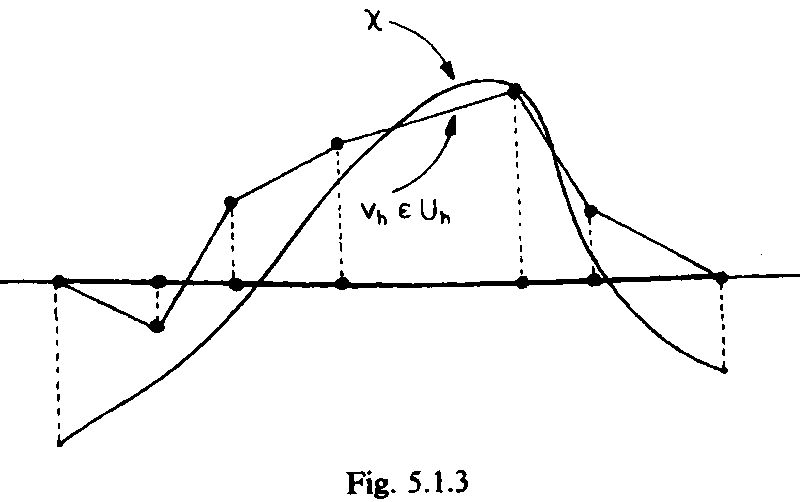
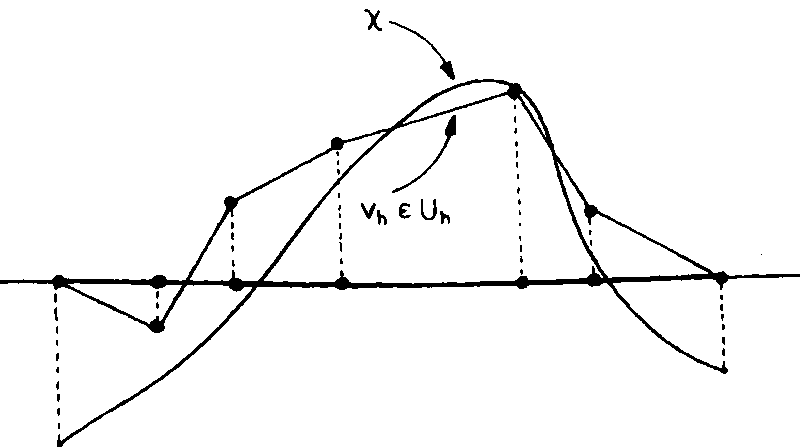
a fair bit of work on FE slides ... but of course more to do

diff --git a/talk1/talk1.tex b/talk1/talk1.tex
@@ -30,9 +30,14 @@
 
 \newcommand{\ip}[2]{\left\langle #1, #2 \right\rangle}
 
-\newcommand{\gcomm}[1]{\ensuremath{\text{\footnotesize \grey{$\leftarrow$ #1}}}}
-
 \newcommand{\lc}{{\text{\large $\circ$}}}
+
+% grey comments on the right
+\newcommand{\acomm}[1]{\ensuremath{\text{\small \grey{$\leftarrow$ #1}}}}
+\newcommand{\afcomm}[1]{\ensuremath{\text{\footnotesize \grey{$\leftarrow$ #1}}}}
+\newcommand{\pcomm}[1]{\ensuremath{\text{\small \grey{(#1)}}}}
+
+\newcommand{\blue}[1]{{\color{icBlue}#1}}
 
 
 \title{Variational inequalities and their finite element solutions}
@@ -121,7 +126,7 @@
 \begin{frame}{projection onto a closed, convex set}
 
 \begin{itemize}
-\item suppose $H$ is a real Hilbert space \grey{(e.g.~$\mathbb{R}^n$)}
+\item suppose $H$ is a real Hilbert space \pcomm{e.g.~$\mathbb{R}^n$}
 \item let $K\subset H$ be nonempty, closed, and convex
 \item a parallelogram law \& completeness argument shows that a unique minimizer exists for the following problem, so it makes a good definition
 
@@ -416,9 +421,9 @@ This is the \alert{variational inequality} problem for the data $K$ and $F$, den
 \item bounded domain $\Omega \subset \RR^d$ with Lipschitz boundary
 \item consider an elastic membrane, with vertical displacement $u$ over $\Omega$
     \begin{itemize}
-    \item[$\lc$] suppose small displacements $u$ \,\grey{(we will use the Laplacian $\grad^2$)}
+    \item[$\lc$] suppose small displacements $u$ \pcomm{we will use the Laplacian $\grad^2$}
     \end{itemize}
-\item $u=g$ on $\partial\Omega$ \,\grey{(fixed boundary condition)}
+\item $u=g$ on $\partial\Omega$ \pcomm{fixed boundary condition}
 \item subject to a vertical force $f$
 
 \hfill \input{tikz/justomega.tex}
@@ -427,12 +432,12 @@ This is the \alert{variational inequality} problem for the data $K$ and $F$, den
 \item constrained to be on or above an \alert{obstacle} $\psi$
 
 \medskip
-\item then:
+\item<2> then:
 \begin{align*}
--\grad^2 u &= f \text{\, where $u>\psi$} && \gcomm{black mesh} && \hspace{50mm} \\\
-         u &= \psi \text{\, otherwise} && \gcomm{white mesh}
+-\grad^2 u &= f \text{\, where $u>\psi$} && \afcomm{black mesh} && \hspace{50mm} \\\
+         u &= \psi \text{\, otherwise} && \afcomm{white mesh}
 \end{align*}
-\item but \emph{where} will $u=\psi$ hold?
+\item<2> but \emph{where} will $u=\psi$ hold?
 \end{itemize}
 
 \vspace{-16mm}
@@ -511,7 +516,7 @@ result:
 
     \begin{itemize}
     \item[$\lc$] Poisson equation $-\grad^2 u=f$ holds in $E_u$
-    \item[$\lc$] both Dirichlet \& Neumann conditions will hold along $\Gamma_u$ \, \grey{(which compensates for unknown location of $\Gamma_u$?)}
+    \item[$\lc$] both Dirichlet \& Neumann conditions will hold along $\Gamma_u$ \pcomm{which compensates for unknown location of $\Gamma_u$?}
     \end{itemize}
 \end{itemize}
 
@@ -530,7 +535,7 @@ result:
     \begin{itemize}
     \item[$\lc$] in applications, this step is not as obvious as for the equality-constrained case?
     \end{itemize}
-\item let \alert{$K = \{v\in H^1(\Omega) : v\ge\psi \text{ and } v|_{\partial\Omega}=g\}$}, a closed, convex subset \,\grey{(not a subspace)}
+\item let \alert{$K = \{v\in H^1(\Omega) : v\ge\psi \text{ and } v|_{\partial\Omega}=g\}$}, a closed, convex subset \pcomm{not a subspace}
 \end{itemize}
 
 \begin{block}{weak forms}
@@ -589,7 +594,7 @@ Suppose $a(\cdot,\cdot)$ is bilinear, bounded, and coercive on a Hilbert space $
 \begin{column}{0.65\textwidth}
 \begin{itemize}
 \item see textbook Ciarlet (2022) for elasticity generally
-\item consider a linear elastic solid on $\Omega\subset\RR^d$ \, \grey{($d=2,3$)}
+\item consider a linear elastic solid on $\Omega\subset\RR^d$ \pcomm{$d=2,3$}
 \item $u:\Omega\to\RR^d$ is \emph{displacement} from ref.~config.
 \item $E(u) = \tfrac12\left(\nabla u+\nabla u^\top\right)$ is \emph{strain tensor}
 \item $\sigma(u) = \lambda\, (\operatorname{tr}E(u))\, I + 2\mu\, E(u)$ is \emph{stress tensor}
@@ -611,10 +616,10 @@ Suppose $a(\cdot,\cdot)$ is bilinear, bounded, and coercive on a Hilbert space $
 
 \onslide<2->
 \begin{itemize}
-\item a \emph{gap function} $g$ is given on $\Gamma_C$ \, \grey{\small ($g=$ normal distance from ref.~config.~to obstacle)}
+\item a \emph{gap function} $g$ is given on $\Gamma_C$ \pcomm{$g=$ normal distance from ref.~config.~to obstacle}
 \item equations of equilibrium:
 \begin{align*}
-  -\nabla\cdot\sigma(u) &= f \quad \text{in } \Omega && \text{stress balance \, \grey{\small ($f$ is body force)}} \\
+  -\nabla\cdot\sigma(u) &= f \quad \text{in } \Omega && \text{stress balance \pcomm{$f$ is body force}} \\
   u\cdot n &\le g \quad \text{on } \Gamma_C && \text{\alert{non-penetration constraint}}
 \end{align*}
 \end{itemize}
@@ -766,7 +771,7 @@ a source term; it adds or removes mass
 \item VI problem is to find $u_n\in K$ at $t_n$ so that, for all $v\in K$,
     $$\alert{\int_\Omega \frac{u_n-u_{n-1}}{\Delta t}(v-u_n) - \bq_n\cdot\nabla(v-u_n) \ge \int_\Omega f_n\,(v-u_n)} \hspace{20mm}$$
 \item $\bq_n = \bq(x,u_n,\grad u_n)$ denotes the unknown flux
-\item well-posed for many flux formulas \,\grey{\small (B.~2021)}
+\item well-posed for many flux formulas \pcomm{B.~2021}
 \item generally not an optimization problem
 \item note that $\Delta t\to \infty$ limit is steady state
 \end{itemize}
@@ -807,18 +812,18 @@ The \alert{mass lost in the retreat area $\Omega_n^r$ came from an unknowable sp
 \end{frame}
 
 
-\begin{frame}{$\infty$-dimensional VI examples}
+\begin{frame}{summary: $\infty$-dimensional VI examples}
 \begin{center}
 
 \renewcommand{\arraystretch}{1.25}
 \begin{tabular}{llll}
 
-problem                & unknown                           & constraint              & minimization? \\
+problem                 & unknown                           & constraint              & minimization? \\
 \midrule
-classical obstacle     & displacement $u\in H^1(\Omega)$   & $u\ge\psi$ on $\Omega$  & yes (convex) \\
-Signorini contact      & displacement $u\in H^1(\Omega;\mathbb{R}^d)$ & $u\cdot n\le g$ on $\Gamma_C$ & yes (convex) \\
-hyperelastic contact\quad & \qquad ''                      & \qquad ''               & yes (not convex) \\
-fluid layer thickness  & thickness $u\in W^{1,p}(\Omega)$  & $u\ge 0$ on $\Omega$    & no \\
+classical obstacle      & displacement $u\in H^1(\Omega)$   & $u\ge\psi$ on $\Omega$  & yes (convex) \\
+Signorini contact       & displacement $u\in H^1(\Omega;\mathbb{R}^d)$ & $u\cdot n\le g$ on $\Gamma_C$ & yes (convex) \\
+hyperelastic contact    & \qquad ''                      & \qquad ''               & yes (not convex) \\
+fluid layer in climate  & thickness $u\in W^{1,p}(\Omega)$  & $u\ge 0$ on $\Omega$    & no \\
 \bottomrule
 \end{tabular}
 \end{center}
@@ -826,66 +831,111 @@ fluid layer thickness  & thickness $u\in W^{1,p}(\Omega)$  & $u\ge 0$ on $\Omega
 \medskip
 in each:
 \begin{itemize}
-\item the constraint is active on a subset of $\Omega$, or of $\Gamma_C \subset \partial\Omega$
-\item simultaneously solution process for $u$ and the active subset
-\item the VI is posed without prior reference to active subset or free boundary
+\item the constraint is active on a subset of $\Omega$, or of $\Gamma_C \subset \partial\Omega$, but
+\item \alert{a VI problem does not refer to the active subset or free boundary}
 \end{itemize}
 
-\medskip
-\grey{variational inequalities have many more applications, including pricing of options, traffic flow networks, game theory, electrical circuits, phase transformations, and so on}
+\medskip 
+\grey{there are many more applications of VIs: pricing of options, traffic flow networks, game theory, electrical circuits, phase transformations, \dots}
 \end{frame}
 
 
-\section[FE solutions]{finite element solutions \hfill {\small \texorpdfstring{$\leftarrow$}{←} \emph{differences from PDE case}}}
+\section[FE solutions]{finite element solutions \hfill {\small \texorpdfstring{$\leftarrow$}{←} \emph{basics, and differences from PDE case}}}
 
-\begin{frame}{finite element for VIs: the basics}
+\begin{frame}{finite elements (FE) for VIs: the basics}
 
 \begin{itemize}
-\item \strikeThrough{taking coals to Newcastle}
-\item presenting finite element (FE) basics at Imperial may be unnecessary
-\item nonetheless the next slides are both:
+\item presenting FE basics at Imperial may be unnecessary \, \pcomm{coals to Newcastle}
+\item the final slides in this talk:
     \begin{itemize}
-    \item[$\lc$] relatively elementary, and
-    \item[$\lc$] focussed on the contrast between PDEs and VIs
+    \item[$\lc$] are relatively elementary, and
+    \item[$\lc$] focus on the contrast between PDEs and VIs
     \end{itemize}
+\item let us return to the classical obstacle problem,
+\begin{align*}
+&K = \{v\in H^1(\Omega) : v\ge\psi \text{ and } v|_{\partial\Omega}=g\} \\
+&\int_\Omega \nabla u\cdot\nabla(v-u) \ge \int_\Omega f\,(v-u) \quad \forall v\in K \hspace{30mm}
+\end{align*}
+\item and summarize regularity:
+\end{itemize}
+
+\vspace{-20mm}
+\hfill \includegraphics[width=0.30\textwidth]{figs/viamr-obstacle.png}
+
+\medskip
+\begin{proposition}[Kinderlehrer \& Stampacchia, 1980]
+For reasonable $\Omega$, if $\psi \in H^2$, $f\in L^2$, and $g\in H^{1/2}$ then \alert{$u\in H_g^1(\Omega)\cap H^2(\Omega)$}.  However, in general, \alert{$u\notin C^2$ and $u\notin H^3$}; this holds even if data are arbitrarily smooth.
+\end{proposition}
+\end{frame}
+
+
+\begin{frame}{FE for VIs: the basics}
+
+\begin{itemize}
+\item the FE problem is a \alert{finite-dimensional VI}, for \alert{$u_h \in K_h$}:
+\alert{
+\begin{align*}
+&K_h = \{v_h\in P_1 : v_h\ge\psi_h \text{ and } v_h|_{\partial\Omega}=g\} \\
+&\int_\Omega \nabla u_h\cdot\nabla(v_h-u_h) \ge \int_\Omega f\,(v_h-u_h) \quad \forall v_h\in K_h \hspace{30mm}
+\end{align*}
+}
+    \begin{itemize}
+    \item[$\lc$] for simplicity assume $g\in P_1$ and $\int f v_h$ is exact \pcomm{usual FE conformity dismissal}
+    \item[$\lc$] assume for now that \alert{$\psi_h=I_h \psi$};\, the discrete obstacle is the $P_1$ interpolant of $\psi$
+    \end{itemize}
+\item note that I am sticking to $P_1$ elements (continuous piecewise-linear)
+\pause
+\item but I have company
+
+\medskip
+{\small
+\begin{block}{the low-order VI gauntlet \, (Ciarlet 2002, p 289)}
+[Because of the low regularity], \emph{finite elements ``of low degree'' are sufficient for all practical purposes, a fact amply confirmed by numerical evidence.}
+\end{block}
+}
+
 \end{itemize}
 \end{frame}
 
 
-\begin{frame}{finite element for VIs: admissibility}
+\begin{frame}[fragile] % The [fragile] option is required for the minted environment
+\frametitle{FE for VIs: Firedrake for classical obstacle problem}
+
+\vspace{-3mm}
+\begin{itemize}
+\item having made an element choice, the Firedrake {\small (\blue{\href{https://www.firedrakeproject.org}{firedrakeproject.org}})} is easy
+\end{itemize}
+
+\vspace{15mm}
+\hfill \includegraphics[width=0.4\textwidth]{figs/cop.png}
+
+\vspace{-30mm}
+\inputminted[fontsize=\scriptsize]{python}{code/cop.py}
+\end{frame}
+
+
+\begin{frame}{FE for VIs: new admissibility concerns}
 
 \begin{columns}
 \begin{column}{0.6\textwidth}
 \begin{itemize}
 \item bar
+\item<2-> foo
 \end{itemize}
 \end{column}
 \begin{column}{0.4\textwidth}
-\input{tikz/p1p2interp.tex}
-
 \includegraphics[width=\textwidth]{figs/ciarlet-513.png}
+
+\onslide<2->{
+\input{tikz/p1p2interp.tex}
+}
 \end{column}
 \end{columns}
 
 \end{frame}
 
 
-\begin{frame}[fragile] % The [fragile] option is required for the minted environment
-  \frametitle{demo of minted}
-    \inputminted[frame=lines, fontsize=\scriptsize]{python}{code/aol.py}
-    %\vfill
-\end{frame}
-
-
-\begin{frame}{foo}
-
-\begin{itemize}
-\item bar
-\end{itemize}
-\end{frame}
-
-
-\begin{frame}{Falk's a priori estimate}
+\begin{frame}{FE for VIs: Falk's lemma}
   for $P_1$ elements on a quasi-uniform mesh, with $\cK_h\not\subset\cK$ in general,
   $$
     \|u-u_h\|_{H^1} \le C\Big(
@@ -898,12 +948,17 @@ in each:
 
 \begin{frame}{summary}
 
-  foo
-\end{frame}
+FIXME
 
+\pause
+\centering
+{\Large
+\bigskip
+\alert{thank you for listening!}
 
-\begin{frame}[standout]
-Questions?
+\bigskip
+\alert{questions?}
+}
 \end{frame}
 
 

diff --git a/talk1/tikz/p1p2interp.tex b/talk1/tikz/p1p2interp.tex
@@ -15,7 +15,7 @@
     \addplot[icBlue, thick] coordinates
       {(0,1.4) (1,0) (2,0) (3,0) (4,1.2) (5,1.0) (6,0.5)};
     % P2 interpolant, one quadratic per element
-    \only<2->{
+    \only<3->{
     \addplot[draw=none, fill=icAccent!25, domain=1:2] {0.7*(x-1)*(x-2)} \closedcycle;
     \addplot[draw=none, fill=icAccent!25, domain=2:3] {0.6*(x-2)*(x-3)} \closedcycle;
     \addplot[icAccent, very thick, domain=0:2] {0.7*(x-1)*(x-2)};
@@ -27,7 +27,7 @@
     \node[anchor=north east, inner sep=0pt, font=\small] at (rel axis cs:1,1) {%
       \begin{tabular}{@{}c@{\,}l@{}}
         \tikz\draw[icBlue, thick] (0,0) -- (0.4,0); & $P_1$ \\
-        \uncover<2->{\tikz\draw[icAccent, very thick] (0,0) -- (0.4,0);} & \uncover<2->{$P_2$}
+        \uncover<3->{\tikz\draw[icAccent, very thick] (0,0) -- (0.4,0);} & \uncover<3->{$P_2$}
       \end{tabular}};
     % nodal values
     \addplot[only marks, mark=*, mark size=1.4pt, icNavy] coordinates

diff --git a/talk1/code/cop.py b/talk1/code/cop.py
@@ -1,0 +1,21 @@
+from firedrake import *
+
+mesh = RectangleMesh(30, 30, 2, 2, -2, -2, diagonal="crossed")
+x, y = SpatialCoordinate(mesh)
+r2 = x ** 2 + y ** 2
+psi = conditional(r2 < 1, sqrt(1 - r2), 0)
+
+V = FunctionSpace(mesh, "P", 1)
+psih = Function(V, name="psi_h").interpolate(psi)
+uh = Function(V, name="u_h")
+vh = TestFunction(V)
+F = inner(grad(uh), grad(vh)) * dx  # f = 0
+bcs = DirichletBC(V, Constant(0.0), "on_boundary")  # g = 0
+problem = NonlinearVariationalProblem(F, uh, bcs)
+
+sp = {"snes_type": "vinewtonrsls",  # <- explained next week
+      "snes_converged_reason": None}  # 6 iterations for *this* grid
+solver = NonlinearVariationalSolver(problem, solver_parameters=sp)
+INF = Function(V).interpolate(Constant(PETSc.INFINITY))
+solver.solve(bounds=(psih, INF))
+VTKFile("cop.pvd").write(uh, psih)
